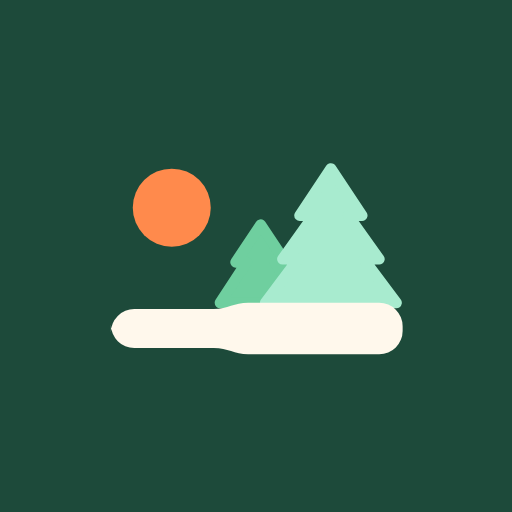
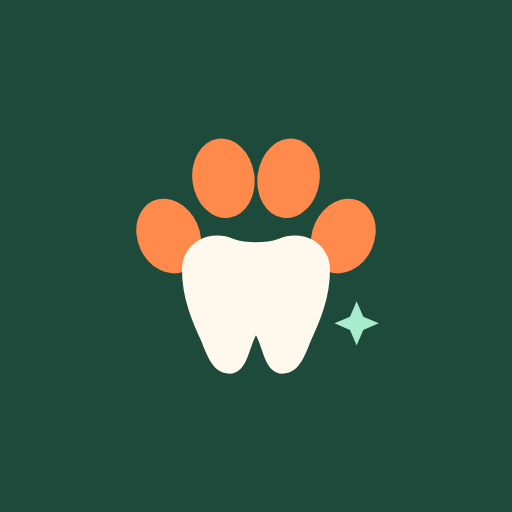
feat: rename Brushwood to Toothpaws with a paw-and-tooth mark
The new mark is a paw print whose big pad is a tooth, with orange toe
beans and a mint sparkle. Regenerate the app, maskable and iOS icons and
the share image, and swap the name in the page, manifest, messages,
backup file name and README. Palette, type and layout are unchanged.

Claude-Session: https://claude.ai/code/session_01PrVc6SLvP6PxLZKbqCeqLB

Changed region(s): [[0.2188, 0.25, 0.8125, 0.75]]

diff --git a/index.html b/index.html
@@ -1,7 +1,7 @@
 <!doctype html>
-<html lang="en"><head><meta charset="utf-8"><meta name="viewport" content="width=device-width, initial-scale=1"><meta name="theme-color" content="#fffaf0"><meta name="color-scheme" content="light dark"><meta name="mobile-web-app-capable" content="yes"><meta name="apple-mobile-web-app-capable" content="yes"><meta name="apple-mobile-web-app-title" content="Brushwood"><link rel="manifest" href="manifest.webmanifest"><link rel="apple-touch-icon" href="icons/icon-180.png"><link rel="icon" href="icon.svg" type="image/svg+xml"><meta name="description" content="Brushwood turns two minutes of toothbrushing into a little trail walk with an animal friend."><meta property="og:type" content="website"><meta property="og:site_name" content="Brushwood"><meta property="og:title" content="Brushwood"><meta property="og:description" content="Brushwood turns two minutes of toothbrushing into a little trail walk with an animal friend."><meta property="og:url" content="https://higherkey.github.io/brush-buddies/"><meta property="og:image" content="https://higherkey.github.io/brush-buddies/og-image.png"><meta property="og:image:width" content="1200"><meta property="og:image:height" content="630"><meta property="og:image:alt" content="The Brushwood logo, a toothbrush with pine trees for bristles, beside the words Two-minute toothbrushing trails with an animal friend."><meta name="twitter:card" content="summary_large_image"><title>Brushwood</title><link rel="preload" href="fonts/fredoka-latin-wght.woff2" as="font" type="font/woff2" crossorigin><link rel="preload" href="fonts/nunito-latin-wght.woff2" as="font" type="font/woff2" crossorigin><link rel="stylesheet" href="styles.css?v=0.8.2"><link rel="stylesheet" href="adventure-scene.css?v=0.8.3"><link rel="stylesheet" href="adventure-habitats.css?v=0.8.1"><link rel="stylesheet" href="expedition.css?v=0.8.2"><script src="account-progress.js?v=0.8.0" defer></script><script src="buddies.js?v=0.8.3" defer></script><script src="adventure-habitats.js?v=0.8.1" defer></script><script src="adventure-scene.js?v=0.8.3" defer></script><script src="adventure-data.js?v=0.6.0" defer></script><script src="adventure.js?v=0.8.3" defer></script><script src="camera-helper.js?v=0.8.0" defer></script><script src="app.js?v=0.9.0" defer></script><script src="collection-backup.js?v=0.9.0" defer></script><script src="neon-config.js?v=0.8.0" defer></script><script src="neon-api.js?v=0.8.3" defer></script><script src="accounts.js?v=0.9.0" defer></script><link rel="stylesheet" href="progress-tools.css?v=0.8.3"><link rel="stylesheet" href="home.css?v=0.8.3"><link rel="stylesheet" href="brand.css?v=0.9.0"><script src="progress-tools.js?v=0.8.3" defer></script></head>
+<html lang="en"><head><meta charset="utf-8"><meta name="viewport" content="width=device-width, initial-scale=1"><meta name="theme-color" content="#fffaf0"><meta name="color-scheme" content="light dark"><meta name="mobile-web-app-capable" content="yes"><meta name="apple-mobile-web-app-capable" content="yes"><meta name="apple-mobile-web-app-title" content="Toothpaws"><link rel="manifest" href="manifest.webmanifest"><link rel="apple-touch-icon" href="icons/icon-180.png"><link rel="icon" href="icon.svg" type="image/svg+xml"><meta name="description" content="Toothpaws turns two minutes of toothbrushing into a little trail walk with an animal friend."><meta property="og:type" content="website"><meta property="og:site_name" content="Toothpaws"><meta property="og:title" content="Toothpaws"><meta property="og:description" content="Toothpaws turns two minutes of toothbrushing into a little trail walk with an animal friend."><meta property="og:url" content="https://higherkey.github.io/brush-buddies/"><meta property="og:image" content="https://higherkey.github.io/brush-buddies/og-image.png"><meta property="og:image:width" content="1200"><meta property="og:image:height" content="630"><meta property="og:image:alt" content="The Toothpaws logo, a paw print whose big pad is a tooth, beside the words Two-minute toothbrushing trails with an animal friend."><meta name="twitter:card" content="summary_large_image"><title>Toothpaws</title><link rel="preload" href="fonts/fredoka-latin-wght.woff2" as="font" type="font/woff2" crossorigin><link rel="preload" href="fonts/nunito-latin-wght.woff2" as="font" type="font/woff2" crossorigin><link rel="stylesheet" href="styles.css?v=0.8.2"><link rel="stylesheet" href="adventure-scene.css?v=0.8.3"><link rel="stylesheet" href="adventure-habitats.css?v=0.8.1"><link rel="stylesheet" href="expedition.css?v=0.8.2"><script src="account-progress.js?v=0.8.0" defer></script><script src="buddies.js?v=0.8.3" defer></script><script src="adventure-habitats.js?v=0.8.1" defer></script><script src="adventure-scene.js?v=0.8.3" defer></script><script src="adventure-data.js?v=0.6.0" defer></script><script src="adventure.js?v=0.8.3" defer></script><script src="camera-helper.js?v=0.8.0" defer></script><script src="app.js?v=0.9.0" defer></script><script src="collection-backup.js?v=0.9.0" defer></script><script src="neon-config.js?v=0.8.0" defer></script><script src="neon-api.js?v=0.8.3" defer></script><script src="accounts.js?v=0.9.0" defer></script><link rel="stylesheet" href="progress-tools.css?v=0.8.3"><link rel="stylesheet" href="home.css?v=0.8.3"><link rel="stylesheet" href="brand.css?v=0.9.0"><script src="progress-tools.js?v=0.8.3" defer></script></head>
 <body><main class="app" id="app" data-theme="cat" data-mode="adventure">
-<header class="topbar"><div class="brand"><svg class="brand-mark" viewBox="0 0 512 512" aria-hidden="true" focusable="false"><rect width="512" height="512" rx="112" fill="#1d4a3a"/><g transform="translate(0 24)"><circle cx="148" cy="170" r="50" fill="#ff8a4c"/><g stroke-width="14" stroke-linejoin="round"><path d="M262 192 L294 240 H280 L314 292 H210 L244 240 H230 Z" fill="#6fcf9f" stroke="#6fcf9f"/><path d="M352 120 L392 180 H374 L414 236 H394 L436 292 H268 L310 236 H290 L330 180 H312 Z" fill="#a8ebcf" stroke="#a8ebcf"/></g><path d="M70 330 a30 30 0 0 1 30-30 H202 c18 0 26 -8 44 -8 H414 a30 30 0 0 1 30 30 v6 a30 30 0 0 1 -30 30 H246 c-18 0 -26 -8 -44 -8 H100 a30 30 0 0 1 -30 -30z" fill="#fff8ec"/></g></svg><span class="brand-name">Brushwood</span></div><div class="top-actions">
+<header class="topbar"><div class="brand"><svg class="brand-mark" viewBox="0 0 512 512" aria-hidden="true" focusable="false"><rect width="512" height="512" rx="112" fill="#1d4a3a"/>  <g fill="#ff8a4c"><ellipse cx="138" cy="226" rx="42" ry="52" transform="rotate(-24 138 226)"/><ellipse cx="212" cy="148" rx="42" ry="54" transform="rotate(-8 212 148)"/><ellipse cx="300" cy="148" rx="42" ry="54" transform="rotate(8 300 148)"/><ellipse cx="374" cy="226" rx="42" ry="52" transform="rotate(24 374 226)"/></g><path d="M156 272 C156 234 194 216 226 230 C242 236 270 236 286 230 C318 216 356 234 356 272 C356 310 342 342 330 368 C322 388 314 412 292 412 C268 412 266 378 256 360 C246 378 244 412 220 412 C198 412 190 388 182 368 C170 342 156 310 156 272 Z" fill="#fff8ec"/><path d="M392 314 l9 21 21 9 -21 9 -9 21 -9 -21 -21 -9 21 -9z" fill="#a8ebcf"/></svg><span class="brand-name">Toothpaws</span></div><div class="top-actions">
 <button class="icon-button" id="settings-open" type="button" aria-label="Settings">⚙</button></div></header>
 <nav class="experience-bar" aria-label="Brushing experience"><button class="quick-button mode-quick" id="mode-toggle" type="button" aria-pressed="false" aria-label="Adventure mode" title="Adventure mode"><span aria-hidden="true">🗺</span></button></nav>
 <section class="buddy-area" id="buddy-area" aria-label="Your brushing buddy"><p class="visitor-label" id="visitor-label">Today's visitor</p><div class="adv-scene" id="adv-scene" aria-hidden="true" hidden><span class="adv-backdrop" id="adv-backdrop"></span></div><span class="floaty floaty-one">✦</span><span class="floaty floaty-two">♥</span><div class="buddy" id="buddy" role="img" aria-label="A cute animal"><span class="buddy-emoji" id="buddy-emoji">🐱</span><span class="buddy-cheeks"><i></i><i></i></span></div><div class="speech" id="message" aria-live="polite"></div><h1 class="buddy-name" id="buddy-name"></h1><div class="buddy-status" id="buddy-status"></div><div class="adv-bar" id="adv-bar" hidden><span class="adv-place" id="adv-place"></span><button class="quick-button adv-journal-open" id="journal-open" type="button"><span aria-hidden="true">📖</span> <span>Journal</span></button></div></section>
@@ -13,7 +13,7 @@
 <details class="camera-diagnostics"><summary>Tracking details</summary><p id="motion-diagnostics">Turn on the camera to see tracking details.</p></details>
 </section>
 <section class="timer-card" aria-label="Brushing timer"><div class="timer-ring" id="timer-ring" role="button" tabindex="0" aria-label="Start brushing"><svg viewBox="0 0 220 220" aria-hidden="true"><circle class="ring-track" cx="110" cy="110" r="99"></circle><circle class="ring-progress" id="progress" cx="110" cy="110" r="99"></circle></svg><div class="timer-readout" aria-live="off"><span class="timer-time" id="time">0:30</span><span class="timer-caption" id="time-caption">READY TO BRUSH</span></div></div><div class="zone-title" id="zone-title"></div><div class="stage-hint">Tap a stage to jump · Hold and drag to reorder</div><div class="zone-track" id="zone-track" aria-label="Brushing stages"></div><div class="total-row"><span id="status-text"></span><span id="total-time"></span></div><div class="controls timer-controls"><button class="primary-button start-button" id="start-button" type="button"><span id="start-button-icon" aria-hidden="true">▶</span> <span id="start-button-label">Start brushing</span></button><button class="primary-button pause-button" id="pause-button" type="button" aria-label="Pause brushing" hidden><span id="pause-button-icon" aria-hidden="true">Ⅱ</span> <span id="pause-button-label">Pause</span></button><button class="secondary-button" id="reset-button" type="button"><span aria-hidden="true">↺</span> Start over</button></div></section>
-<div class="session-tools"><button class="quick-button" id="music-toggle" type="button" aria-pressed="false">♫ Music off</button><button class="quick-button motion-quick" id="motion-toggle" type="button" aria-pressed="false"><span class="motion-dot"></span><span id="motion-toggle-label">Camera off</span></button></div><section class="collection-save" aria-label="Protect your collection"><p>Keep your collection safe across devices.</p><button class="text-button" id="account-open" type="button">Sign in / Save progress</button></section><footer class="footer"><span class="footer-brand">Brushwood</span><span class="footer-version">v0.9.0</span><a class="footer-link" href="https://eight1fivedesign.com/" target="_blank" rel="noopener noreferrer">eight1five</a><details class="art-credit"><summary>Credits</summary><a class="footer-link" href="https://github.com/jdecked/twemoji" target="_blank" rel="noopener noreferrer">Twemoji</a><a class="footer-link" href="animals/LICENSE-GRAPHICS.txt">CC BY 4.0</a><a class="footer-link" href="fonts/OFL-Fredoka.txt">Fredoka</a><a class="footer-link" href="fonts/OFL-Nunito.txt">Nunito</a><span>(SIL OFL)</span></details></footer></main>
+<div class="session-tools"><button class="quick-button" id="music-toggle" type="button" aria-pressed="false">♫ Music off</button><button class="quick-button motion-quick" id="motion-toggle" type="button" aria-pressed="false"><span class="motion-dot"></span><span id="motion-toggle-label">Camera off</span></button></div><section class="collection-save" aria-label="Protect your collection"><p>Keep your collection safe across devices.</p><button class="text-button" id="account-open" type="button">Sign in / Save progress</button></section><footer class="footer"><span class="footer-brand">Toothpaws</span><span class="footer-version">v0.9.0</span><a class="footer-link" href="https://eight1fivedesign.com/" target="_blank" rel="noopener noreferrer">eight1five</a><details class="art-credit"><summary>Credits</summary><a class="footer-link" href="https://github.com/jdecked/twemoji" target="_blank" rel="noopener noreferrer">Twemoji</a><a class="footer-link" href="animals/LICENSE-GRAPHICS.txt">CC BY 4.0</a><a class="footer-link" href="fonts/OFL-Fredoka.txt">Fredoka</a><a class="footer-link" href="fonts/OFL-Nunito.txt">Nunito</a><span>(SIL OFL)</span></details></footer></main>
 <dialog class="settings-dialog" id="settings-dialog" aria-labelledby="settings-title"><div class="settings-shell"><div class="settings-header"><div><p class="eyebrow">MAKE IT YOURS</p><h2 id="settings-title">Buddy settings</h2></div><button class="icon-button close-button" id="settings-close" type="button" aria-label="Close settings">×</button></div>
 <nav class="settings-tabs" aria-label="Settings sections"><button class="settings-tab active" data-panel="buddy-panel" type="button">Buddy</button><button class="settings-tab" data-panel="stages-panel" type="button">Stages</button><button class="settings-tab" data-panel="timer-panel" type="button">Timer & sounds</button><button class="settings-tab" data-panel="motion-panel" type="button">Camera & brushing</button></nav>
 <section class="settings-panel active" id="buddy-panel"><div class="account-actions"><button class="quick-button buddy-quick" id="buddy-quick" type="button"><span id="quick-buddy-emoji">🐱</span><span>Buddy</span></button></div><div class="setting-group"><label class="setting-label" for="theme-select">Brushing buddy</label><select id="theme-select" class="select-control"><option value="random">🎲 Surprise me</option><option value="cat">🐱 Kitty the Cat</option><option value="bunny">🐰 Bubbles the Bunny</option><option value="koala">🐨 Koko the Koala</option><option value="dog">🐶 Scout the Puppy</option><option value="fox">🦊 Finn the Fox</option><option value="bear">🐻 Benny the Bear</option><option value="panda">🐼 Pippa the Panda</option><option value="penguin">🐧 Pebble the Penguin</option><option value="owl">🦉 Ollie the Owl</option><option value="lion">🦁 Leo the Lion</option><option value="frog">🐸 Freddie the Frog</option><option value="tiger">🐯 Tilly the Tiger</option><option value="elephant">🐘 Ellie the Elephant</option><option value="unicorn">🦄 Star the Unicorn</option></select><p class="setting-help">Two starter buddies are ready now. Fill a visitor’s journal entry to choose them here. Adventure picks a visiting buddy for the day.</p></div><div class="setting-group"><label class="setting-label" for="experience-select">Experience</label><select id="experience-select" class="select-control"><option value="simple">⏱ Simple timer</option><option value="adventure">🗺 Adventure expeditions</option></select><p class="setting-help">Adventure turns each brush into a little trip, with places to explore and stickers to collect. The map button at the top switches modes too.</p><label class="toggle-row"><span><strong>Story text</strong><small>Show a short line at each stop on the trip</small></span><input type="checkbox" id="story-text"><span class="toggle"></span></label></div><div class="setting-group"><label class="setting-label" for="appearance-select">Appearance</label><select id="appearance-select" class="select-control"><option value="auto">Match my device</option><option value="light">Light</option><option value="dark">Dark</option></select><p class="setting-help">Dark mode uses bright, clear text so it stays easy to read.</p></div><div class="setting-group"><p class="setting-label">Movement & look</p><label class="toggle-row"><span><strong>Buddy animations</strong><small>Bounces, wiggles and sparkles</small></span><input type="checkbox" id="animations" checked><span class="toggle"></span></label><label class="toggle-row"><span><strong>Gentle animations</strong><small>Keep movement extra gentle</small></span><input type="checkbox" id="reduced-motion"><span class="toggle"></span></label></div></section>

diff --git a/accounts.js b/accounts.js
@@ -8,7 +8,7 @@
   const captures = new WeakMap();
   const message = text => { $('account-status').textContent = text; };
   // fetch() rejects with a TypeError when the network is unreachable; say that in plain words.
-  const explain = error => error instanceof TypeError ? "Couldn't reach the Brushwood server. Check your connection and try again." : error.message;
+  const explain = error => error instanceof TypeError ? "Couldn't reach the Toothpaws server. Check your connection and try again." : error.message;
   const scoped = base => base + (window.BB_PROFILE_SCOPE ? ':' + window.BB_PROFILE_SCOPE : '');
   const cacheKey = () => 'brushAccount:' + window.BB_PROFILE_SCOPE;
   const locked = work => navigator.locks ? navigator.locks.request('brushBuddiesAdventureV1', work) : Promise.resolve(work());
@@ -227,7 +227,7 @@
           message('Password changed. Sign in with your new password.');
           return;
         }
-        await api.auth(intent === 'create' ? 'sign-up/email' : 'sign-in/email', { email, password, ...(intent === 'create' ? { name: 'Brushwood account' } : {}) });
+        await api.auth(intent === 'create' ? 'sign-up/email' : 'sign-in/email', { email, password, ...(intent === 'create' ? { name: 'Toothpaws account' } : {}) });
         await checkedSession();
         if (!user) message('Check your email to finish creating your account, then sign in.');
       } finally { $('account-password').value = ''; }

diff --git a/collection-backup.js b/collection-backup.js
@@ -8,7 +8,7 @@
     const blob = new Blob([JSON.stringify({ version: 1, collection: collection.load(), journal: JSON.parse(localStorage.getItem(journalKey()) || '{}') })], { type: 'application/json' });
     const url = URL.createObjectURL(blob);
     const a = document.createElement('a');
-    a.href = url; a.download = 'brushwood-collection.json'; a.click();
+    a.href = url; a.download = 'toothpaws-collection.json'; a.click();
     setTimeout(() => URL.revokeObjectURL(url), 1000);
     status.textContent = 'Backup downloaded. Keep it somewhere safe.';
     } catch {
@@ -51,7 +51,7 @@
       collection.save(current);
       status.textContent = 'Collection restored. Open the journal to see your buddies.';
     } catch {
-      status.textContent = 'Could not restore that file. Choose a Brushwood backup; your existing collection is kept.';
+      status.textContent = 'Could not restore that file. Choose a Toothpaws backup; your existing collection is kept.';
     }
     event.target.value = '';
   });

diff --git a/brand.css b/brand.css
@@ -1,4 +1,4 @@
-/* Brushwood brand layer.
+/* Toothpaws brand layer.
    Loaded after every other stylesheet. It sets the brand palette, type and
    component shapes; per-buddy accents (ring, active stage) still come from
    the buddy themes in styles.css. */

diff --git a/README.md b/README.md
@@ -1,4 +1,4 @@
-# Brushwood
+# Toothpaws
 
 Two-minute toothbrushing trails with an animal friend. A kid-friendly toothbrushing timer hosted as a static site on GitHub Pages.
 
@@ -16,7 +16,7 @@ Two-minute toothbrushing trails with an animal friend. A kid-friendly toothbrush
 - Configurable breaks between stages and independent sound toggles
 - Local MediaPipe camera Assist: face-following mouth target, small-motion detection, calibration, adjustable target and local video replay; optional automatic pausing for manual brushes
 - Preferences and stage definitions are saved locally in the browser
-- A warm, rounded Brushwood look with large kid-friendly controls (see Brand below)
+- A warm, rounded Toothpaws look with large kid-friendly controls (see Brand below)
 - Motion sampling only analyzes newly delivered camera frames to reduce unnecessary work on phones
 - No build step; camera mode uses a pinned, locally bundled MediaPipe runtime and face model
 
@@ -62,8 +62,8 @@ Animal calls and interface sounds are synthesized locally with the Web Audio API
 
 ## Brand
 
-- **Name:** Brushwood. Brushwood is the undergrowth of a forest, and the app turns brushing into a walk along a trail.
-- **Mark:** two pine trees growing out of a toothbrush head, with a sunrise. Source is `icon.svg`; `icons/icon-maskable.svg` is the padded version for Android's adaptive icons and `icons/icon-full.svg` the full-bleed version for iOS. The PNGs in `icons/` are rendered from these.
+- **Name:** Toothpaws: teeth plus paws. Every brush is a short trip with an animal friend.
+- **Mark:** a paw print whose big pad is a tooth, with orange toe beans and a mint sparkle. Source is `icon.svg`; `icons/icon-maskable.svg` is the padded version for Android's adaptive icons and `icons/icon-full.svg` the full-bleed version for iOS. The PNGs in `icons/` are rendered from these.
 - **Palette:** Pine `#1d4a3a`, Leaf `#2f8a5f`, Mint `#a8ebcf`, Sunrise `#ff8a4c`, Cream `#fffaf0`. Each buddy keeps its own accent for the timer ring and the active stage.
 - **Type:** Fredoka for the wordmark, headings and timer; Nunito for body text. Both are bundled in `fonts/` (SIL Open Font License, see the license files there) and cached for offline use.
 - **Share preview:** `og-image.png` (1200×630) is used for link previews.
@@ -76,7 +76,7 @@ Open `index.html` in a modern browser or serve the folder with a static web serv
 
 ## Install as an app (PWA)
 
-Brushwood is a Progressive Web App. On a supported browser, use the browser's **Install app** or **Add to Home Screen** command to put it on your device's home screen. The standalone display mode opens without the normal browser chrome.
+Toothpaws is a Progressive Web App. On a supported browser, use the browser's **Install app** or **Add to Home Screen** command to put it on your device's home screen. The standalone display mode opens without the normal browser chrome.
 
 A service worker precaches the app shell so the timer can load offline after the first successful visit. App navigation is network-first when online and falls back to the cached page when offline. The worker only handles same-origin GET requests; it does not intercept camera streams or external requests. Camera motion detection continues to process frames locally and still requires camera permission.
 
